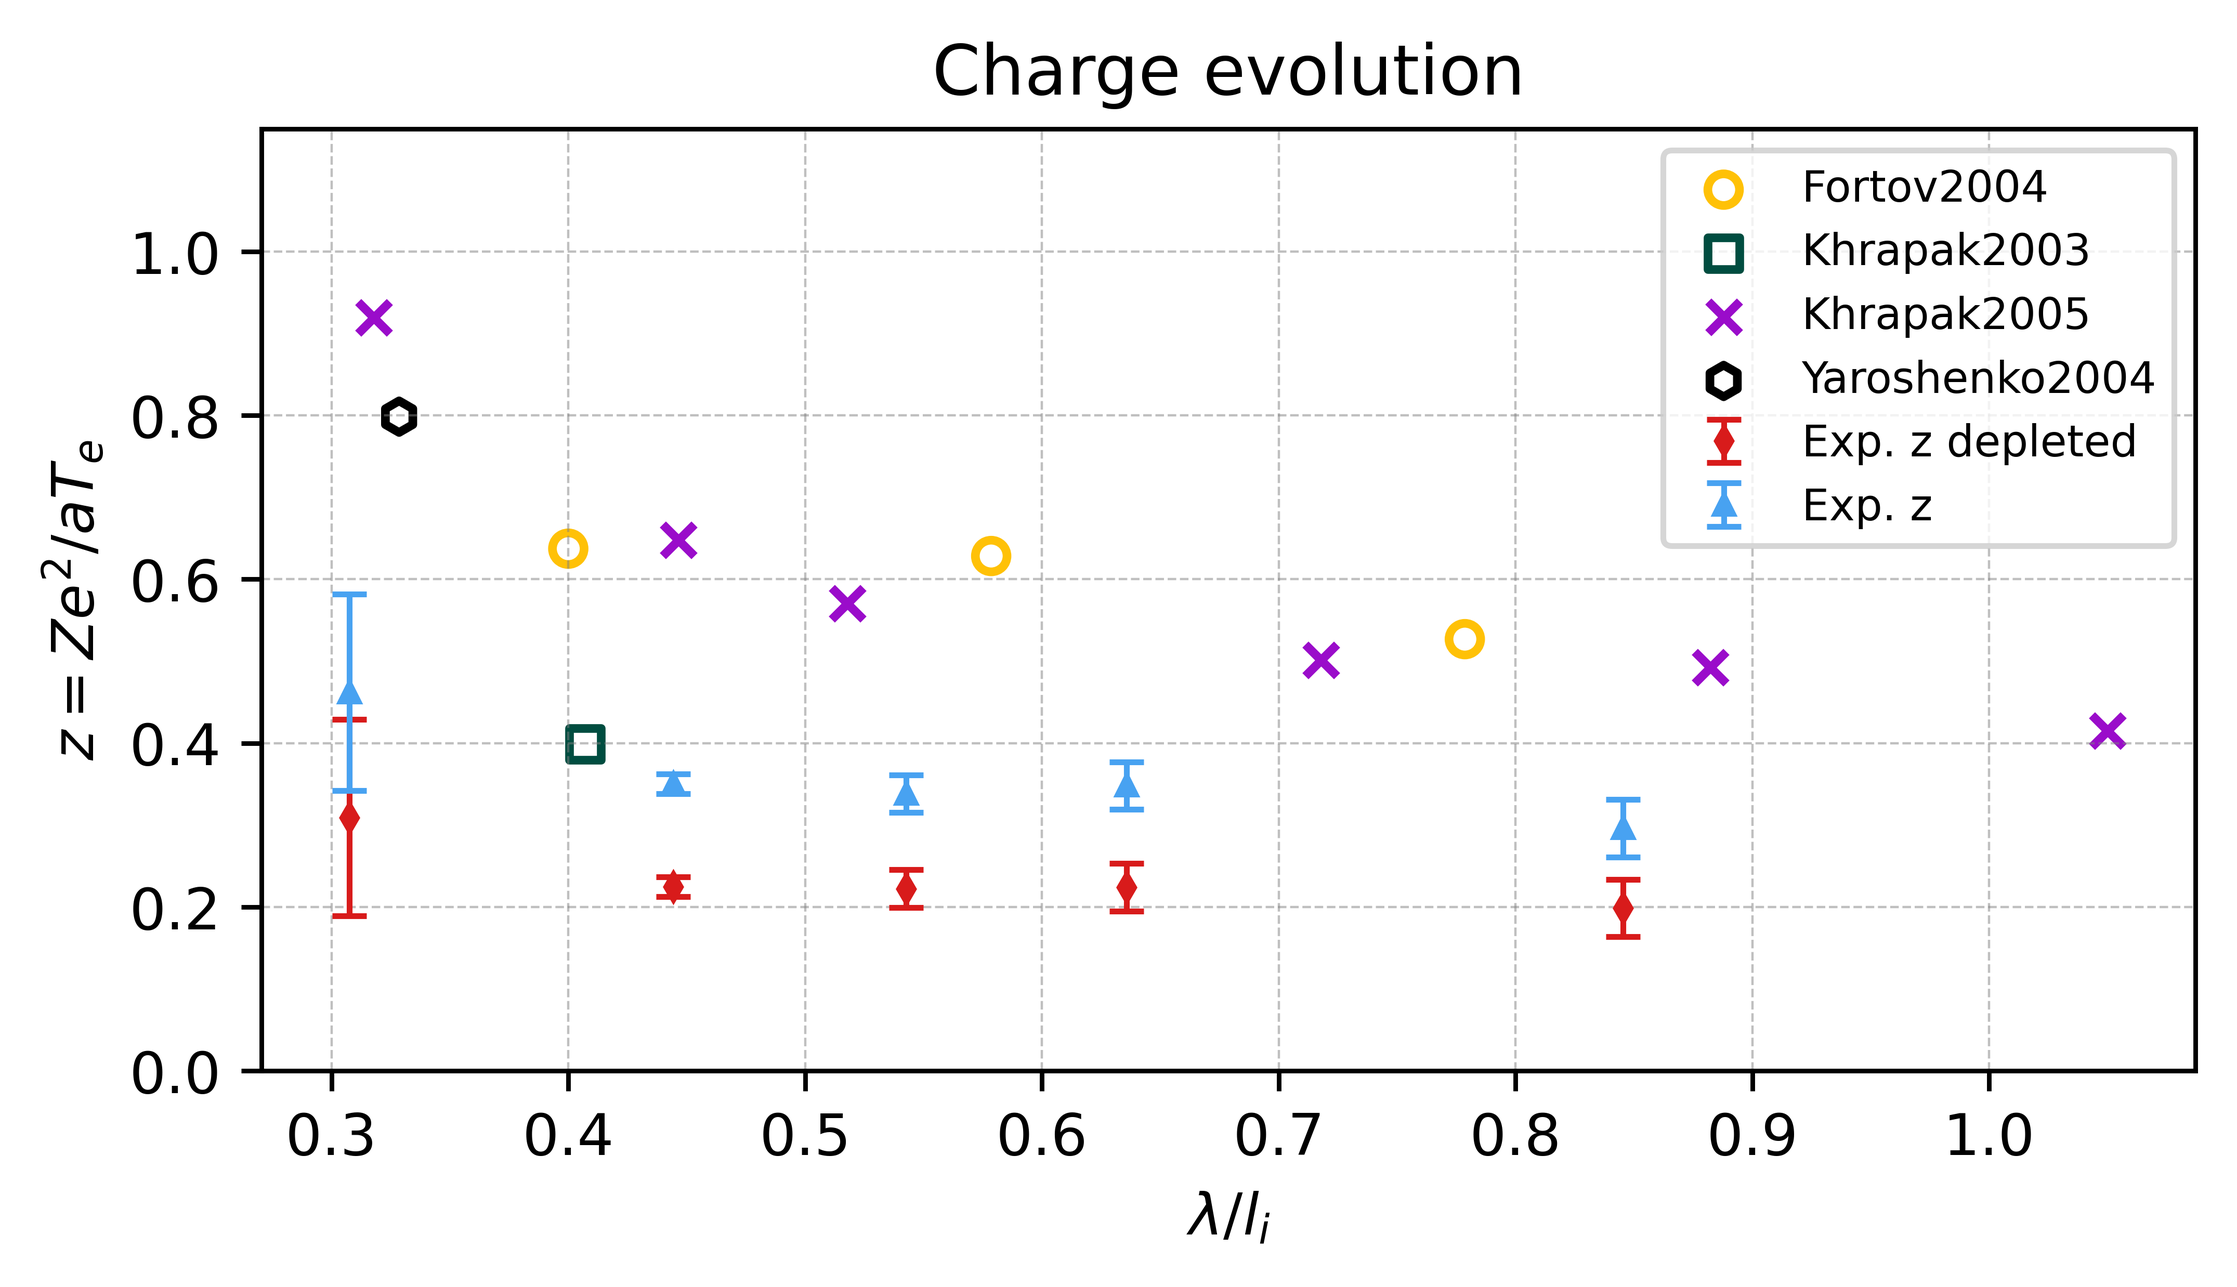
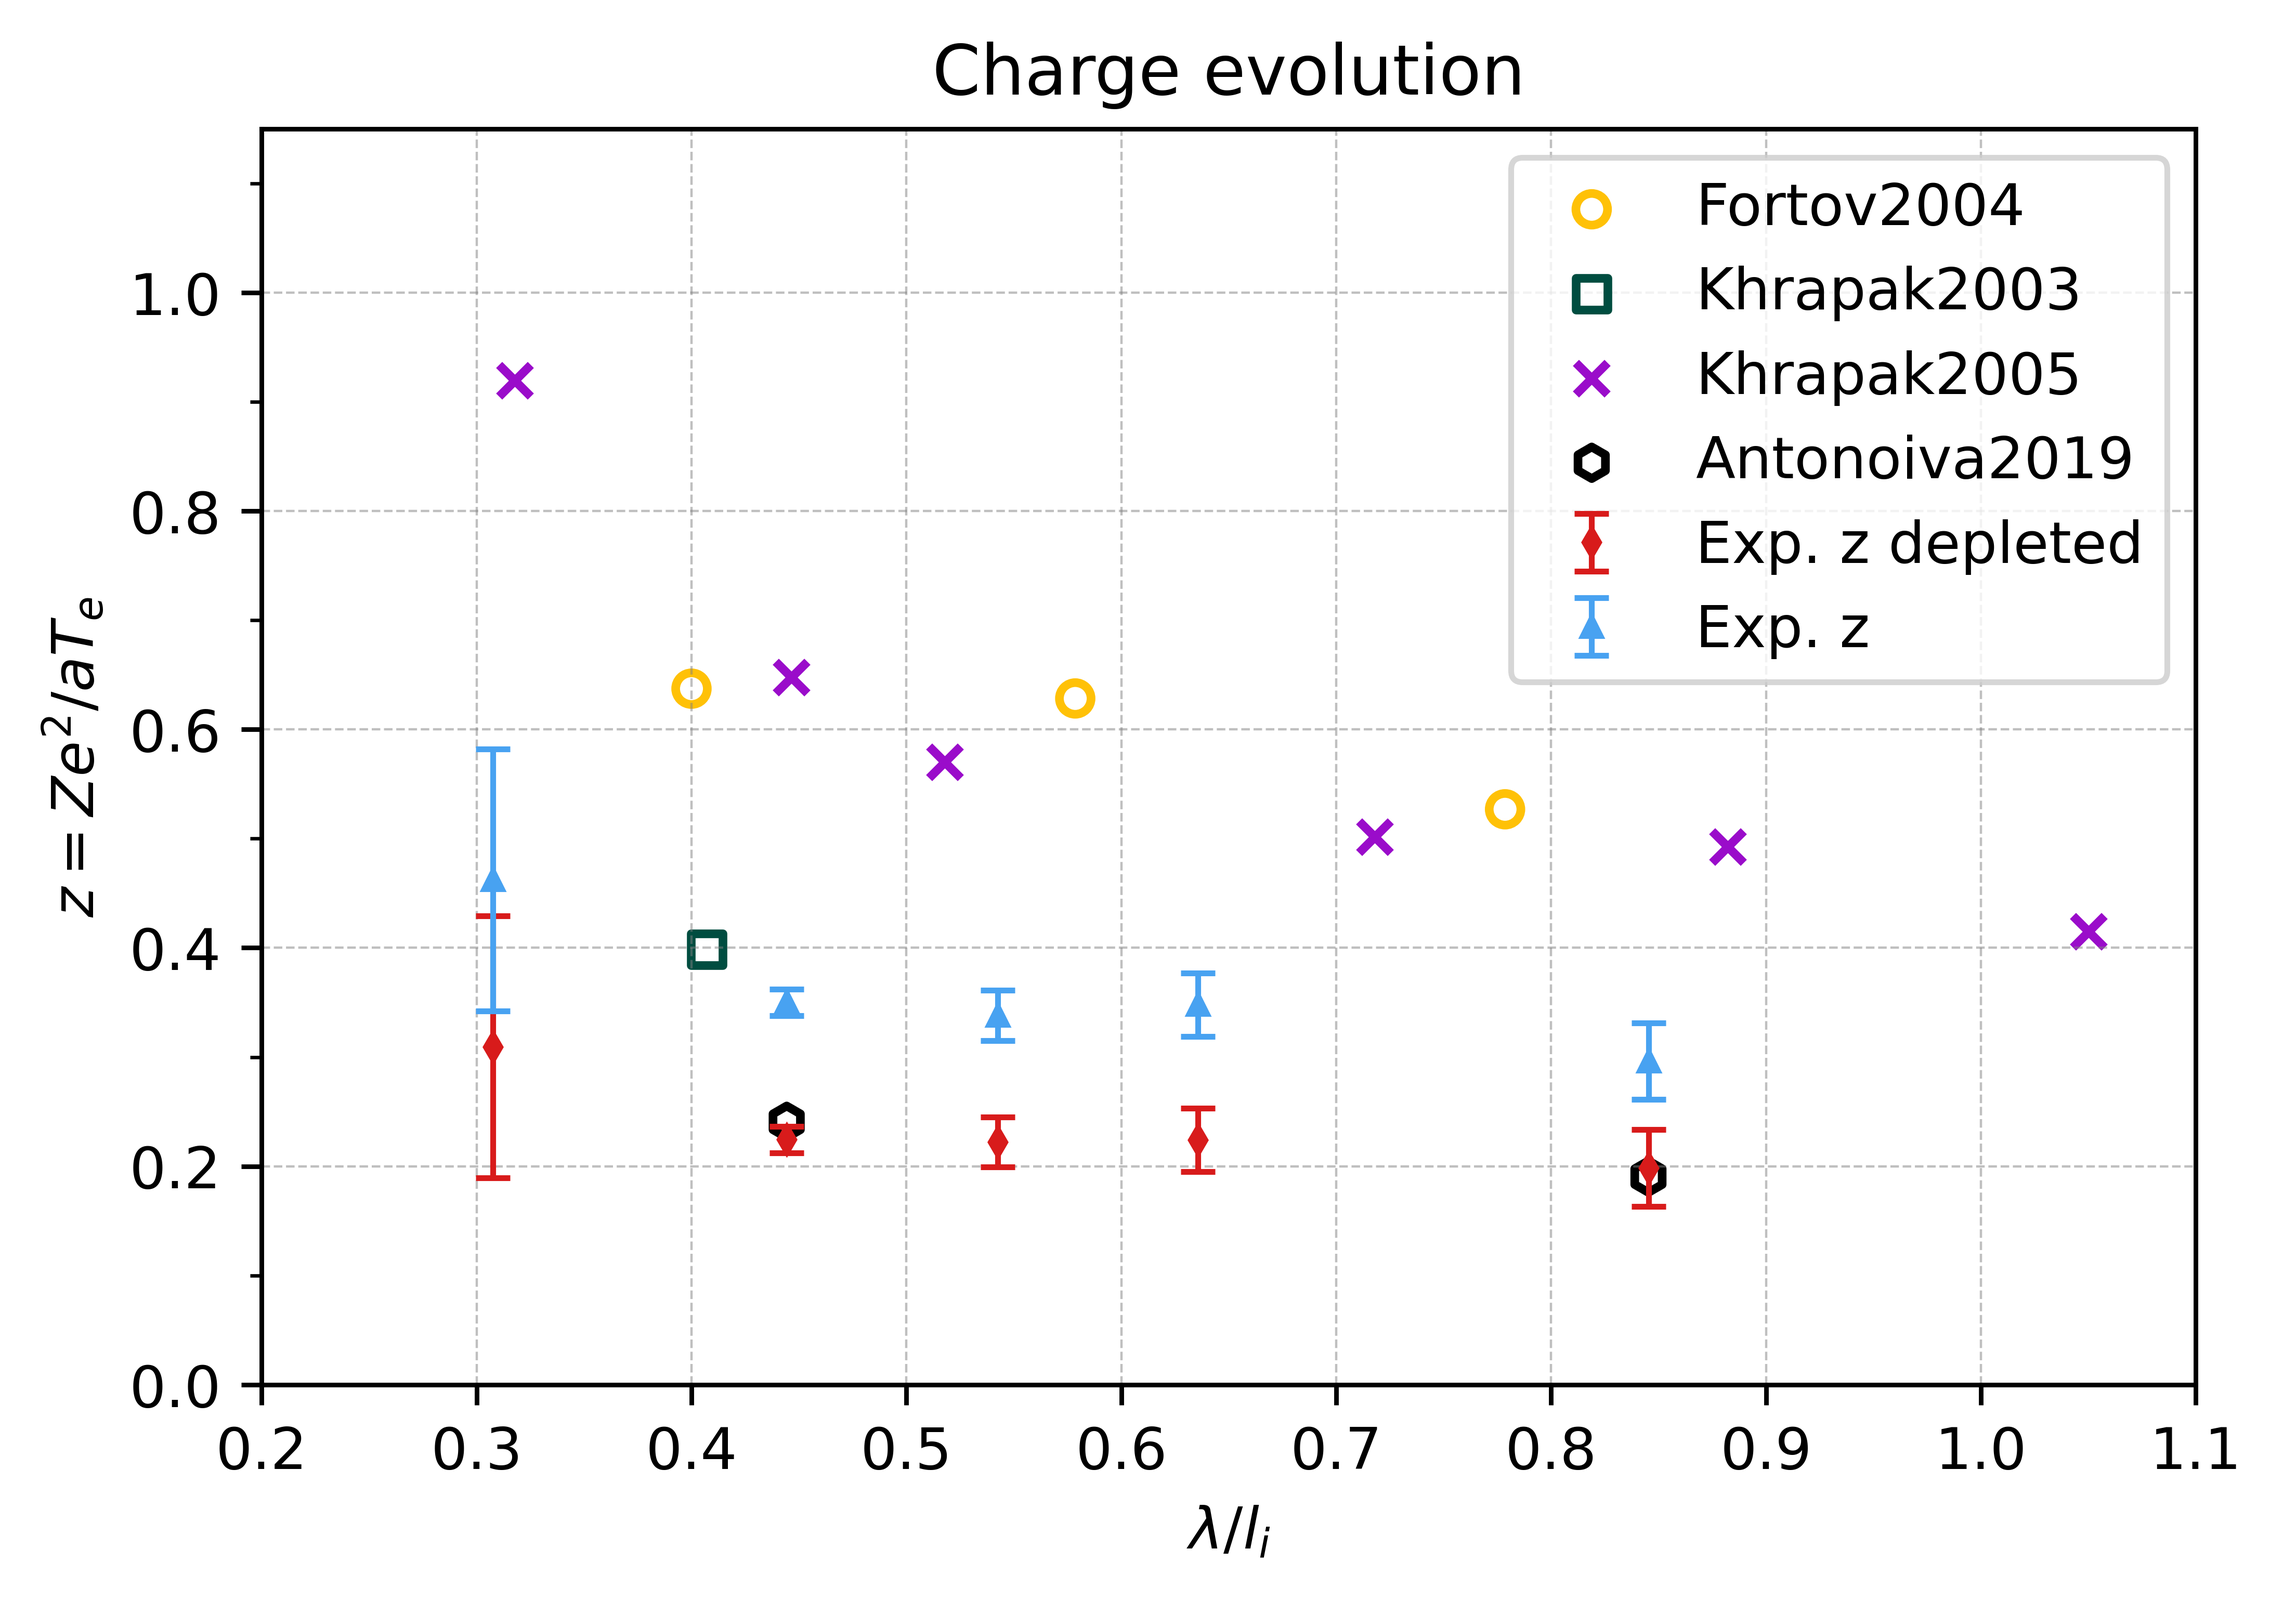
charge evo +antonova

diff --git a/plots_bw_pfc42.py b/plots_bw_pfc42.py
@@ -1524,9 +1524,9 @@ def charge_plot(Z_d, Z_d_0, z_error, z_external, k):
     ax.scatter(z_external[0][0], z_external[0][1], marker='o', color='#FFC107', linewidth=1.5, s=30, facecolors='none')
     ax.scatter(z_external[1][0], z_external[1][1], marker='s', color='#004D40', linewidth=1.5, s=30, facecolors='none')
     ax.scatter(z_external[2][0][:6], z_external[2][1][:6], marker='x', color='#9A0CCA', linewidth=1.5, s=30)
-    ax.scatter(z_external[3][0], z_external[3][1], marker='h', color='#000000', linewidth=1.5, s=30, facecolors='none')
-    #
-    ax.legend(['Fortov2004', 'Khrapak2003', 'Khrapak2005', 'Yaroshenko2004', 'Exp. z depleted', 'Exp. z'], loc='upper right', prop={'size': 7.5})
+    ax.scatter(z_external[4][0], z_external[4][1], marker='h', color='#000000', linewidth=1.5, s=30, facecolors='none')
+    #, 'Yaroshenko2004'
+    ax.legend(['Fortov2004', 'Khrapak2003', 'Khrapak2005', 'Antonoiva2019', 'Exp. z depleted', 'Exp. z'], loc='upper right')#, prop={'size': 8})
     #
     #adds a title and axes labels
     ax.set_title('Charge evolution')
@@ -2456,7 +2456,8 @@ a = json.load(open('ext-data/Fortov2004.json'))
 b = json.load(open('ext-data/Khrapak2003.json'))
 c = json.load(open('ext-data/Khrapak2005.json'))
 d = json.load(open('ext-data/Yaroshenko2004.json'))
-z_external = [[a['x'],a['y']], [b['x'],b['y']], [c['x'],c['y']], [d['x'],d['y']]]
+e = json.load(open('ext-data/Antonova2019.json'))
+z_external = [[a['x'],a['y']], [b['x'],b['y']], [c['x'],c['y']], [d['x'],d['y']], [e['x'],e['y']]]
 z_d = [parameters["15pa"]["z_depl"], parameters["20pa"]["z_depl"], parameters["25pa"]["z_depl"], parameters["30pa"]["z_depl"], parameters["40pa"]["z_depl"]]
 z_0 = [parameters["15pa"]["z"], parameters["20pa"]["z"], parameters["25pa"]["z"], parameters["30pa"]["z"], parameters["40pa"]["z"]]
 z_error = [parameters["15pa"]["z_error"], parameters["20pa"]["z_error"], parameters["25pa"]["z_error"], parameters["30pa"]["z_error"], parameters["40pa"]["z_error"]]
@@ -2464,7 +2465,7 @@ ion_mean = [1/(parameters["15pa"]["n_0"]*parameters["neon"]["cross-section"]),1/
 dx_ion_mean = [4.99514846e+20/(parameters["15pa"]["n_0"]**2*parameters["neon"]["cross-section"]), 4.99514846e+20/(parameters["20pa"]["n_0"]**2*parameters["neon"]["cross-section"]), 4.99514846e+20/(parameters["25pa"]["n_0"]**2*parameters["neon"]["cross-section"]), 4.99514846e+20/(parameters["30pa"]["n_0"]**2*parameters["neon"]["cross-section"]),4.99514846e+20/(parameters["40pa"]["n_0"]**2*parameters["neon"]["cross-section"])]
 collisionality = [parameters["15pa"]["debye_D"]/ion_mean[0], parameters["20pa"]["debye_D"]/ion_mean[1], parameters["25pa"]["debye_D"]/ion_mean[2], parameters["30pa"]["debye_D"]/ion_mean[3], parameters["40pa"]["debye_D"]/ion_mean[4]]
 #
-#charge_plot(z, z_0, z_error, z_external, collisionality)
+charge_plot(z, z_0, z_error, z_external, collisionality)
 
 #%%
 
@@ -2579,8 +2580,8 @@ data = {
                     "v_group_100_error" : error_40_average,
                     "k_100" : k_40pa,
                     "k_100_error" : k_40pa_error,
-                    "c_daw_100" : speedlist_average_40pa_forward,
-                    "c_daw_100_error" : error_speedlist_average_40pa_forward,
+                    "c_daw_100" : speedlist_average_40pa_forward_pfc,
+                    "c_daw_100_error" : error_speedlist_average_40pa_forward_pfc,
             }
         }
 with open('resultsC17/finaldatastack.json', 'w') as filehandle:
